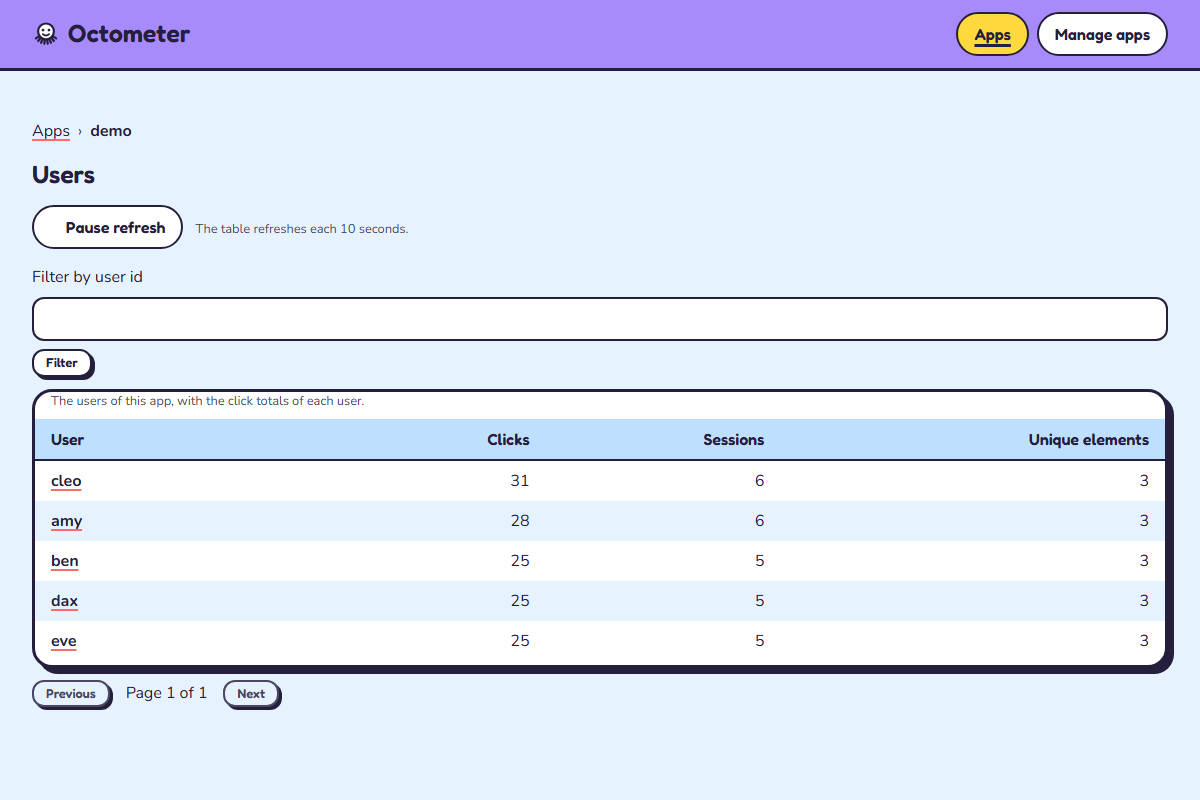
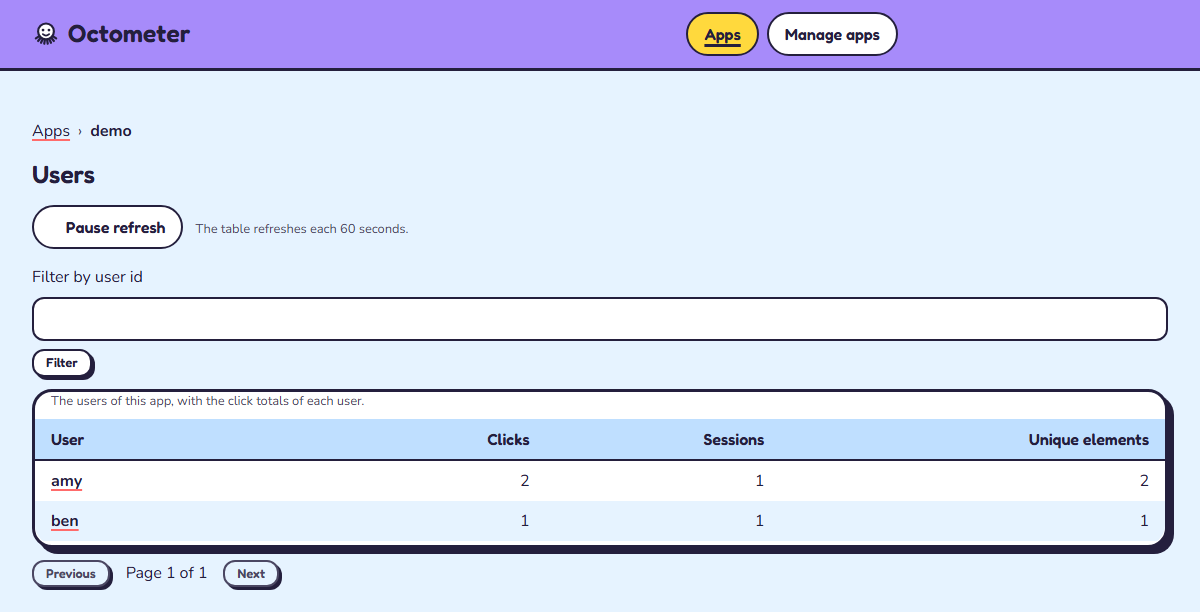
feat(site): re-capture the dashboard screenshots and crop to content (#351)
Refs #343.

The three dashboard screenshots of the landing page are captured again from the current dashboard and cropped to the content (the header, the title row, the refresh bar, the table, 24 px below it): site/public/screens/apps-, users-, elements-{600,1200}.png. They show "The table refreshes each 60 seconds." and no empty area. The scenario of the section in site/e2e/tests/how-it-works.spec.ts asserts naturalHeight / naturalWidth below 0.6 for each image (the old images had 0.667).

Review: one reviewer (site TypeScript and design with the security check), CHANGES REQUESTED then APPROVE after one correction (the first capture showed the account element of the harness in the header); six MINOR rows in minor_issues/351.md.

diff --git a/site/e2e/tests/how-it-works.spec.ts b/site/e2e/tests/how-it-works.spec.ts
@@ -60,6 +60,14 @@ test('the three sections render with their images and texts, and nothing moves u
   // The three screenshots: a non-empty alt text, and a loaded image. Each
   // image is lazy, so the scroll comes before the "naturalWidth" read (the
   // lesson of the frontend brief on a lazy image, applied to this suite).
+  //
+  // Issue #343: the old images kept one fixed, tall ratio (height /
+  // width = 1600 / 2400, about 0.667) below each short table, with an
+  // empty area below it. The bound of 0.6 passes each new, cropped
+  // image (the tallest, the users view, gives about 0.51) and fails
+  // the old ratio (the break proof of the pull request text states
+  // both numbers).
+  const MAX_HEIGHT_TO_WIDTH_RATIO = 0.6;
   const images = page.locator('.frame img');
   await expect(images).toHaveCount(3);
   const imageCount = await images.count();
@@ -69,8 +77,12 @@ test('the three sections render with their images and texts, and nothing moves u
     expect(alt).toBeTruthy();
     await image.scrollIntoViewIfNeeded();
     await expect(async () => {
-      const naturalWidth = await image.evaluate((el: HTMLImageElement) => el.naturalWidth);
-      expect(naturalWidth).toBeGreaterThan(0);
+      const naturalSize = await image.evaluate((el: HTMLImageElement) => ({
+        width: el.naturalWidth,
+        height: el.naturalHeight,
+      }));
+      expect(naturalSize.width).toBeGreaterThan(0);
+      expect(naturalSize.height / naturalSize.width).toBeLessThan(MAX_HEIGHT_TO_WIDTH_RATIO);
     }).toPass();
   }
 

diff --git a/site/index.html b/site/index.html
@@ -141,7 +141,7 @@
                 src="/screens/apps-1200.png"
                 alt="The apps view: the app name, the clicks, the unique users, the unique sessions, the first pages, the status, and the data time."
                 width="1200"
-                height="800"
+                height="452"
                 loading="lazy"
               />
             </picture>
@@ -157,7 +157,7 @@
                 src="/screens/users-1200.png"
                 alt="The users view: the user id, the clicks, the sessions, and the unique elements."
                 width="1200"
-                height="800"
+                height="612"
                 loading="lazy"
               />
             </picture>
@@ -173,7 +173,7 @@
                 src="/screens/elements-1200.png"
                 alt="The elements view: the element, the clicks, the sessions, and the last interaction time."
                 width="1200"
-                height="800"
+                height="449"
                 loading="lazy"
               />
             </picture>

diff --git a/minor_issues/351.md b/minor_issues/351.md
@@ -1,0 +1,12 @@
+# MINOR findings of pull request #351
+
+Each row of this file comes from the review of pull request #351, for issue #343.
+
+| Date | Issue | Reviewer role | File and line | Finding | Suggested fix | Status |
+| --- | --- | --- | --- | --- | --- | --- |
+| 2026-10-09 | #343 | site TypeScript and design, with the security check | `site/e2e/tests/how-it-works.spec.ts:79-86` | The ratio assertion sits inside `toPass()`; a true ratio regression retries until the test timeout. | Keep the width check inside `toPass()`; assert the ratio one time, after the block. | open |
+| 2026-10-09 | #343 | site TypeScript and design, with the security check | `site/e2e/tests/how-it-works.spec.ts:71-87` | The loop reads the `-1200.png` source at every viewport; the three `-600.png` files get no ratio check. | Repeat the ratio read after the resize to 360 px, where `currentSrc` holds `-600.png`. | open |
+| 2026-10-09 | #343 | site TypeScript and design, with the security check | `site/e2e/tests/how-it-works.spec.ts:64-69` | The new comment holds two long sentences, 26 and 33 words, above the limit of 25. | Write four short sentences: the old ratio, the gap, the bound, and the tallest view. | open |
+| 2026-10-09 | #343 | site TypeScript and design, with the security check | `CHANGELOG.md:26-27` | The line holds 26 words and joins two actions with "and", above the limit of 25. | Split the line into two sentences: the re-capture, then the crop. | open |
+| 2026-10-09 | #343 | site TypeScript and design, with the security check | `site/public/screens/apps-1200.png` and the five other files | The new demo data is thin: 3 clicks and 2 users, against 134 clicks and 5 users on `main`. | Send more demo clicks of more demo users before a capture, then write the six files again. | open |
+| 2026-10-09 | #343 | site TypeScript and design, with the security check | `site/scripts/screenshots.mjs:31-41,75` | The script assumes no sign-in; `GET /api/apps` answers 401 now, so `npm run screenshots` fails at its first step. | Open a follow-up issue: give the helper the harness sign-in and a `clip` 24 px below `<main>`. | open |

diff --git a/CHANGELOG.md b/CHANGELOG.md
@@ -23,6 +23,8 @@ The version number follows the tag form `X.Y.Z`, with no prefix.
 - Add the waitlist form: the Worker handler of `POST /api/waitlist`, `GET`/`POST
   /confirm`, and `GET`/`POST /remove`, the D1 migration, and the confirmation mail
   through Resend. (#291)
+- Re-capture the three dashboard screenshots of the landing page from the current
+  build, and crop each one to its content, with 24 px below the table. (#343)
 
 ### Contract
 
